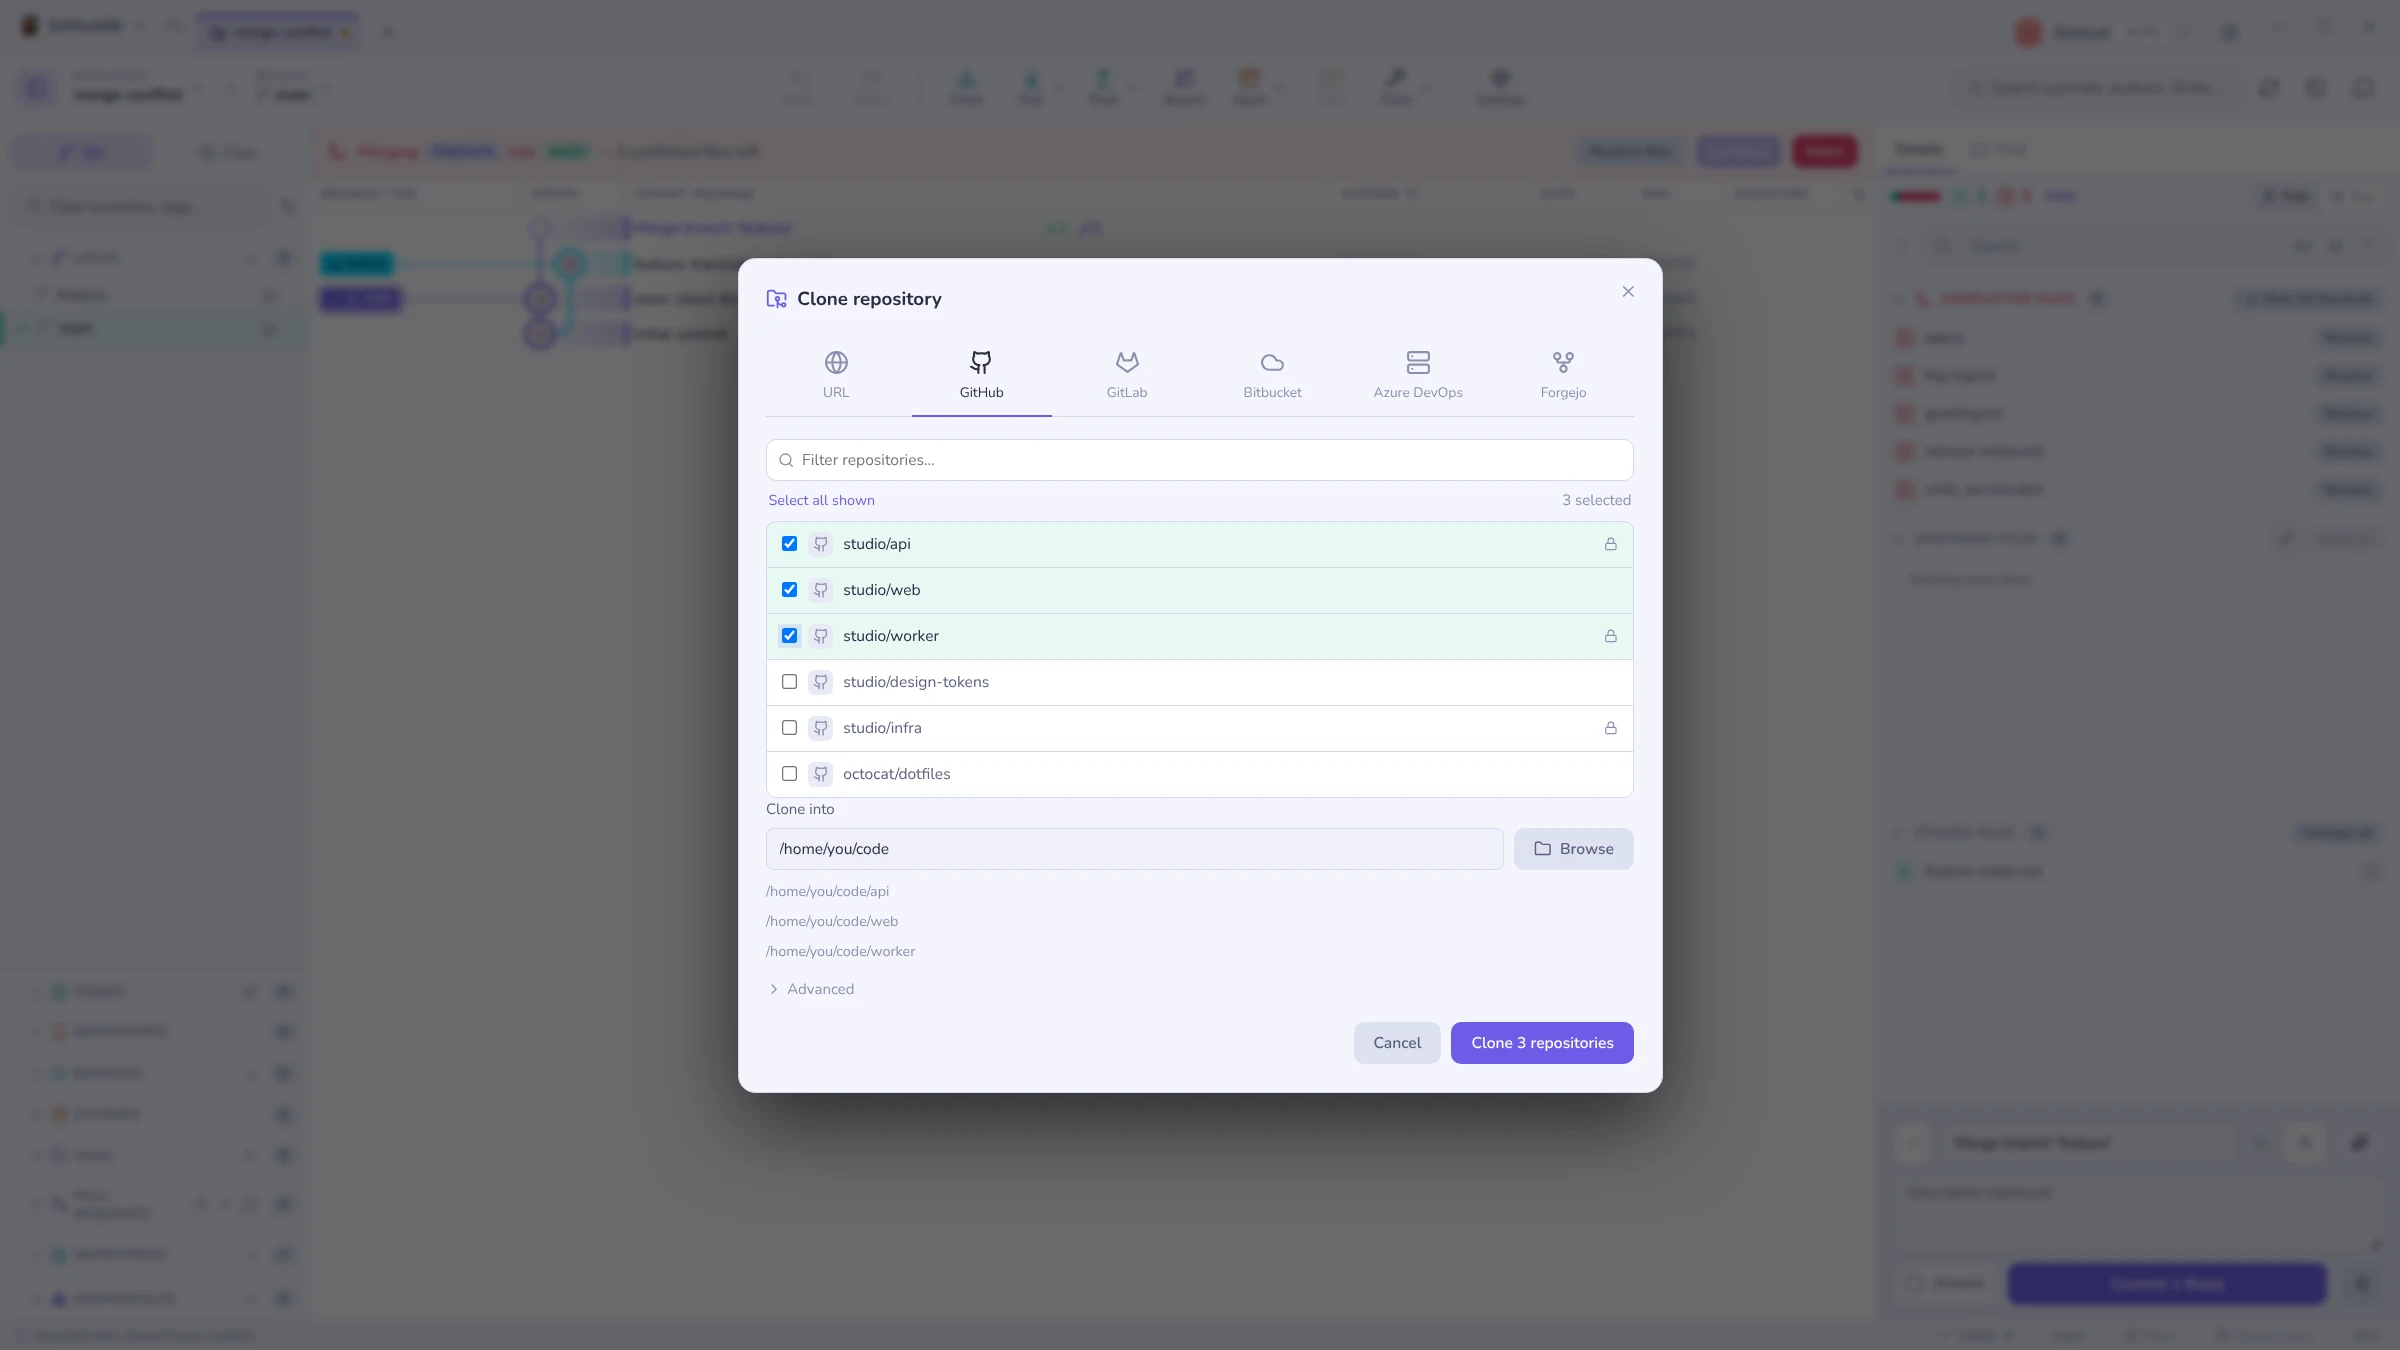
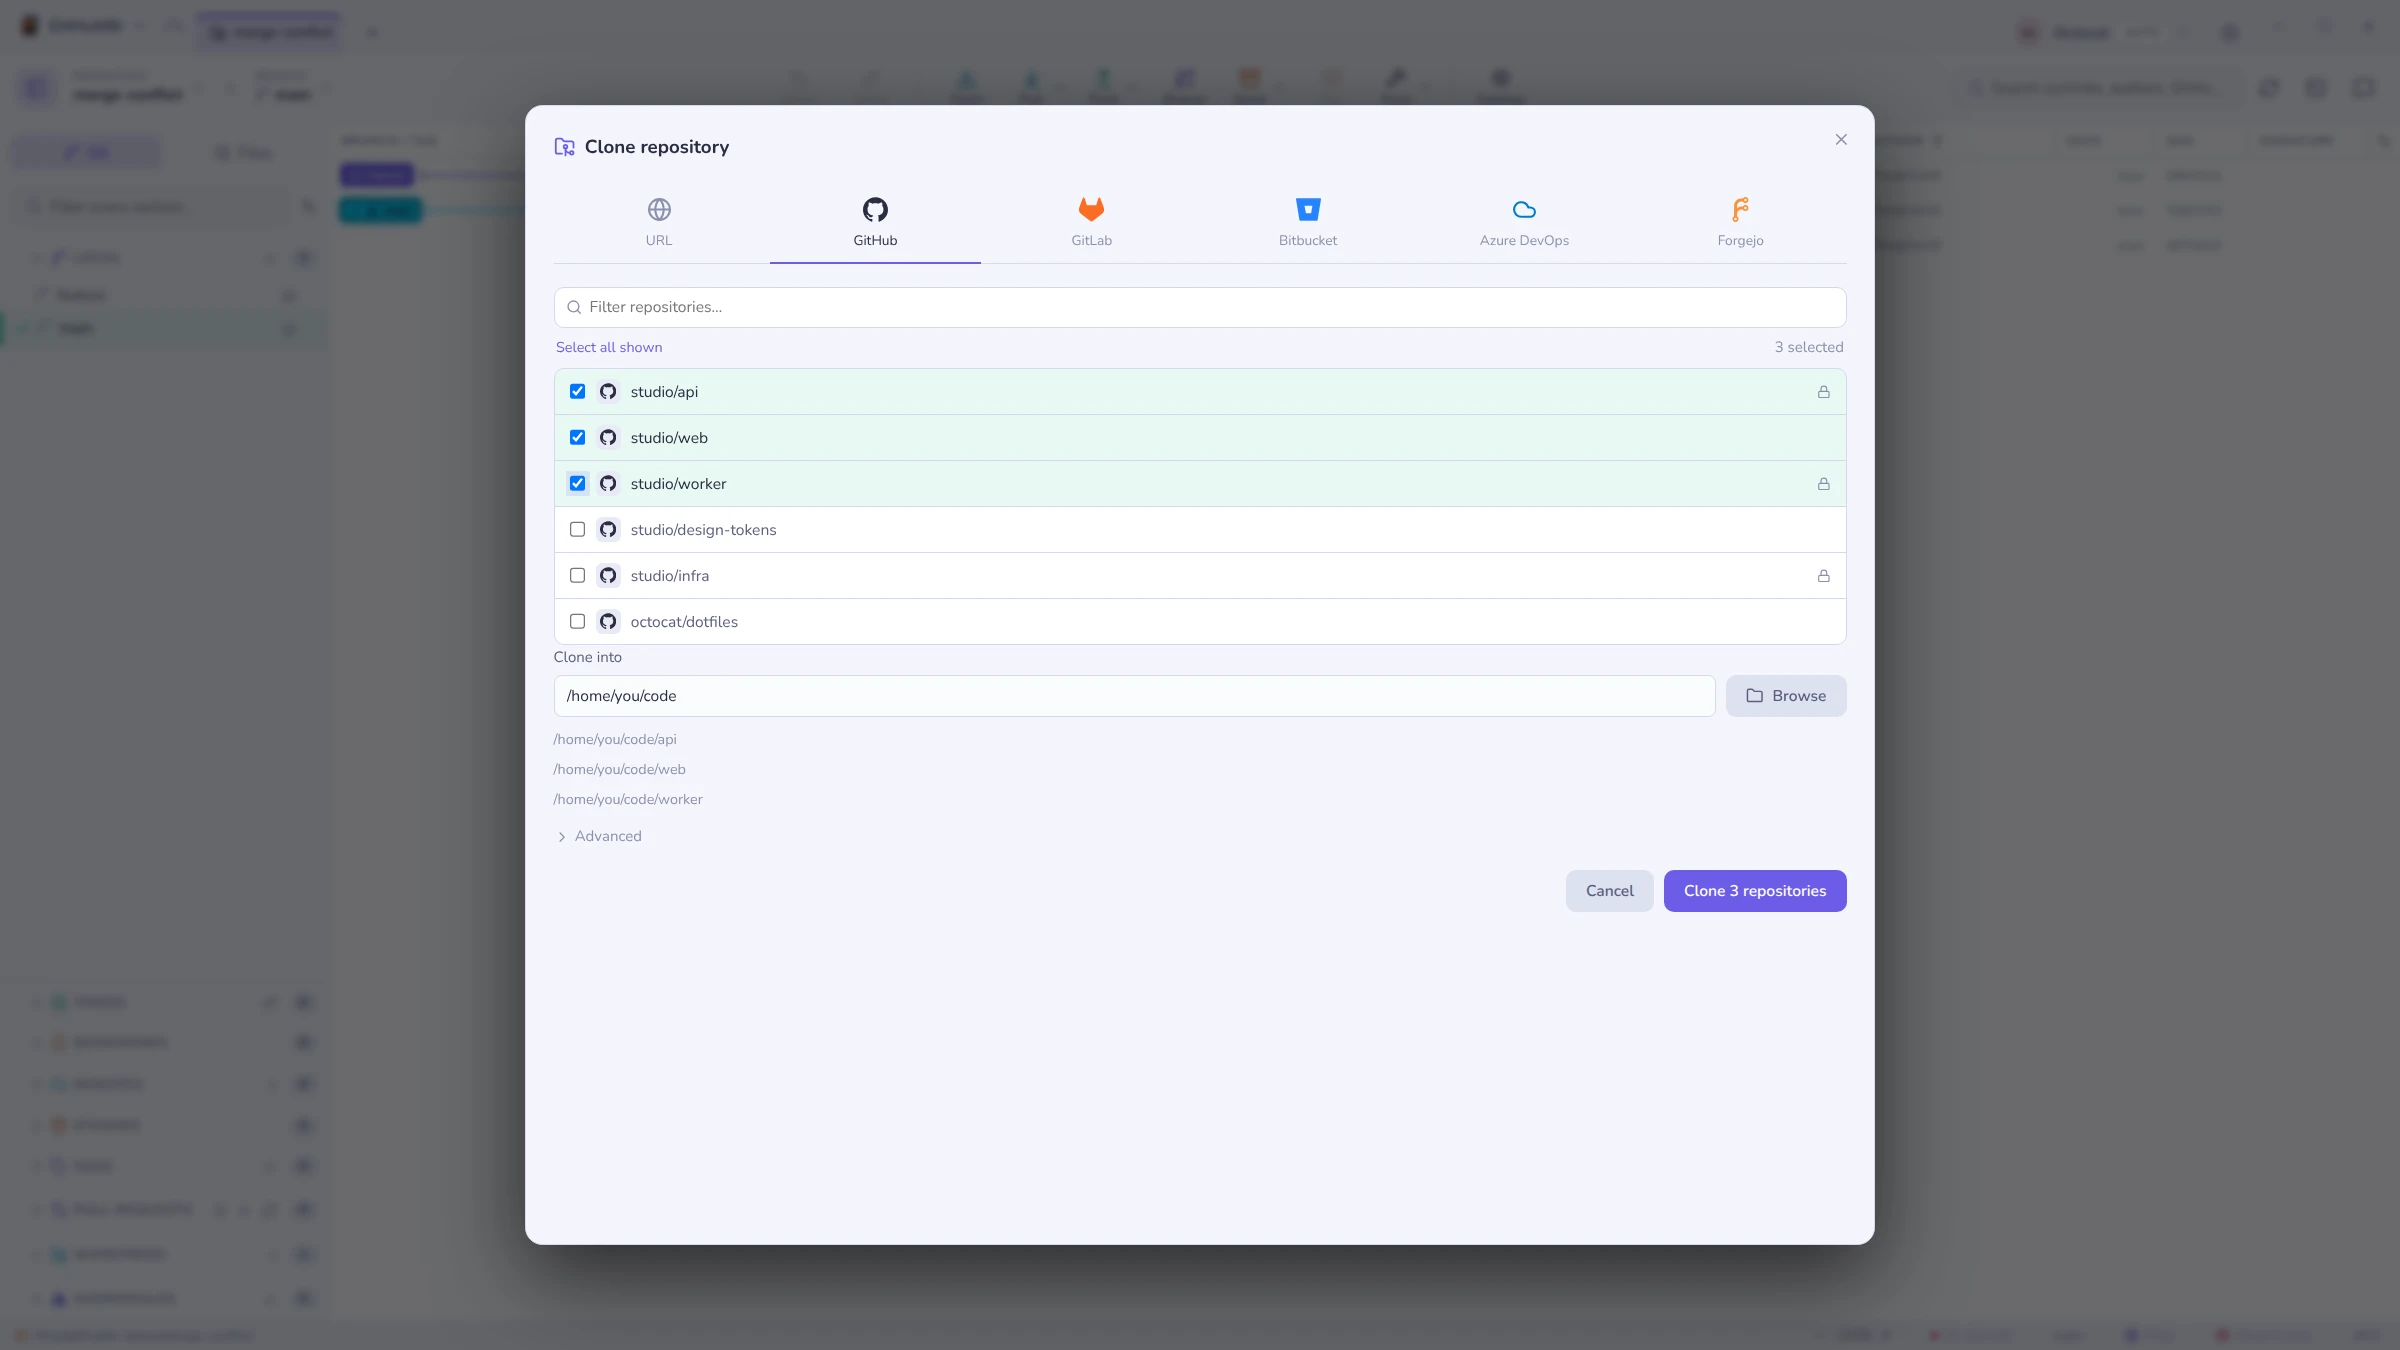
style(dialogs): dialogs full of information take Settings' size
- --modal-w-lg and --modal-h-lg, Settings' own size, shared by Settings and repository settings
- the tall group, Clone and Branch cleanup take it too

diff --git a/src/renderer/src/styles.css b/src/renderer/src/styles.css
@@ -12,7 +12,10 @@
   --modal-w: 470px;
   --modal-w-md: 504px;
   --modal-w-wide: 740px;
-  --modal-w-tall: 820px;
+  /* The large group: Settings' own size, for every dialog full of information
+     that scrolls — lists, logs, histories, the repository settings. */
+  --modal-w-lg: min(1080px, calc(100vw - 60px));
+  --modal-h-lg: min(912px, calc(100vh - 80px));
   /* GitHuttBr Default brand palette */
   --githuttbr-primary: #2b2d42;
   --githuttbr-purple: #6c5ce7;
@@ -6632,20 +6635,10 @@ body.col-resizing .node-ava {
   width: var(--modal-w-wide);
 }
 
-/* 20% over the default 420px: room for a repository list worth multi-selecting. */
-.modal-clone {
-  width: var(--modal-w-wide);
-}
-
 /* 20% over the default 420px: branch names, their state badges and the
    "tracks origin/…" line fit without wrapping. */
 .modal-push-branches {
   width: var(--modal-w-md);
-}
-
-/* Wide enough for a long PR branch name plus its reason chips on one line. */
-.modal-branch-cleanup {
-  width: 600px;
 }
 
 /* The standard width: the reviewer, assignee and label chips and the two
@@ -8545,8 +8538,8 @@ body.col-resizing .node-ava {
    section's content. 20% over the 900 × 760 it had, so the grouped pages'
    rows stop wrapping; the viewport still caps it on a small screen. */
 .modal-settings {
-  width: min(1080px, calc(100vw - 60px));
-  height: min(912px, calc(100vh - 80px));
+  width: var(--modal-w-lg);
+  height: var(--modal-h-lg);
   display: flex;
   flex-direction: column;
   overflow: hidden;
@@ -14622,7 +14615,14 @@ input[type='range']:focus-visible {
 }
 
 /* ── Branch comparison: a centre-pane view (was a modal) ── */
-.modal-tall { width: var(--modal-w-tall); max-width: calc(100vw - 48px); }
+/* Dialogs full of information take the large group's size, Settings' own. */
+.modal.modal-tall,
+.modal.modal-clone,
+.modal.modal-branch-cleanup {
+  width: var(--modal-w-lg);
+  height: var(--modal-h-lg);
+  max-width: calc(100vw - 48px);
+}
 .compare-header { flex-wrap: wrap; row-gap: 6px; }
 .compare-title { display: flex; align-items: center; gap: 8px; font-size: 13px; flex-shrink: 0; }
 .compare-title svg { color: var(--accent, #6366f1); }
@@ -20591,8 +20591,8 @@ mark.diff-find-hit.current { background: #ff9632; color: #10121a; }
 /* The same size as Settings (.modal-settings), so the two read as one family
    and the repository's pages get the room Settings' pages have. */
 .modal:has(> .modal-scroll > .repo-settings-shell) {
-  width: min(1080px, calc(100vw - 60px));
-  height: min(912px, calc(100vh - 80px));
+  width: var(--modal-w-lg);
+  height: var(--modal-h-lg);
 }
 .repo-settings-shell { flex: 1; }
 .repo-settings-summary {
